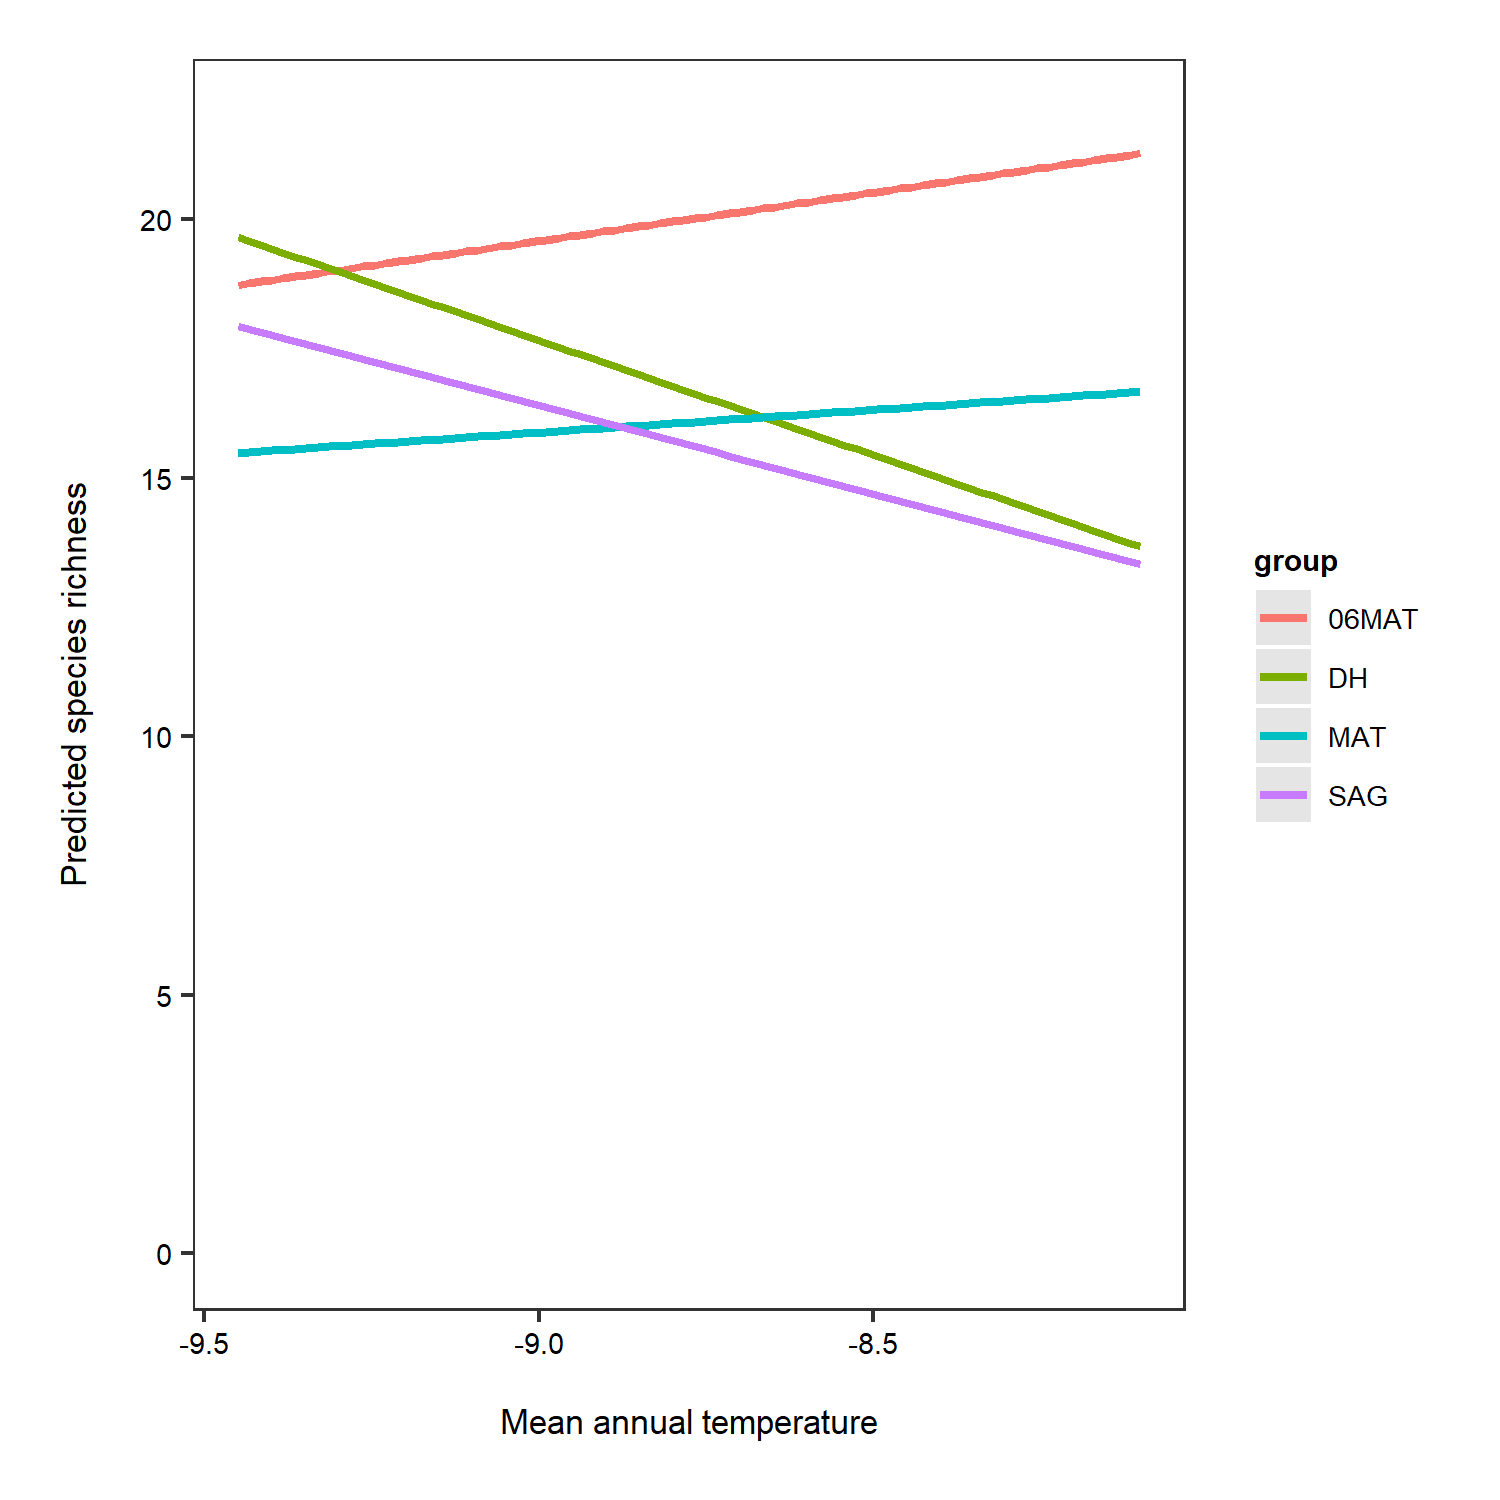
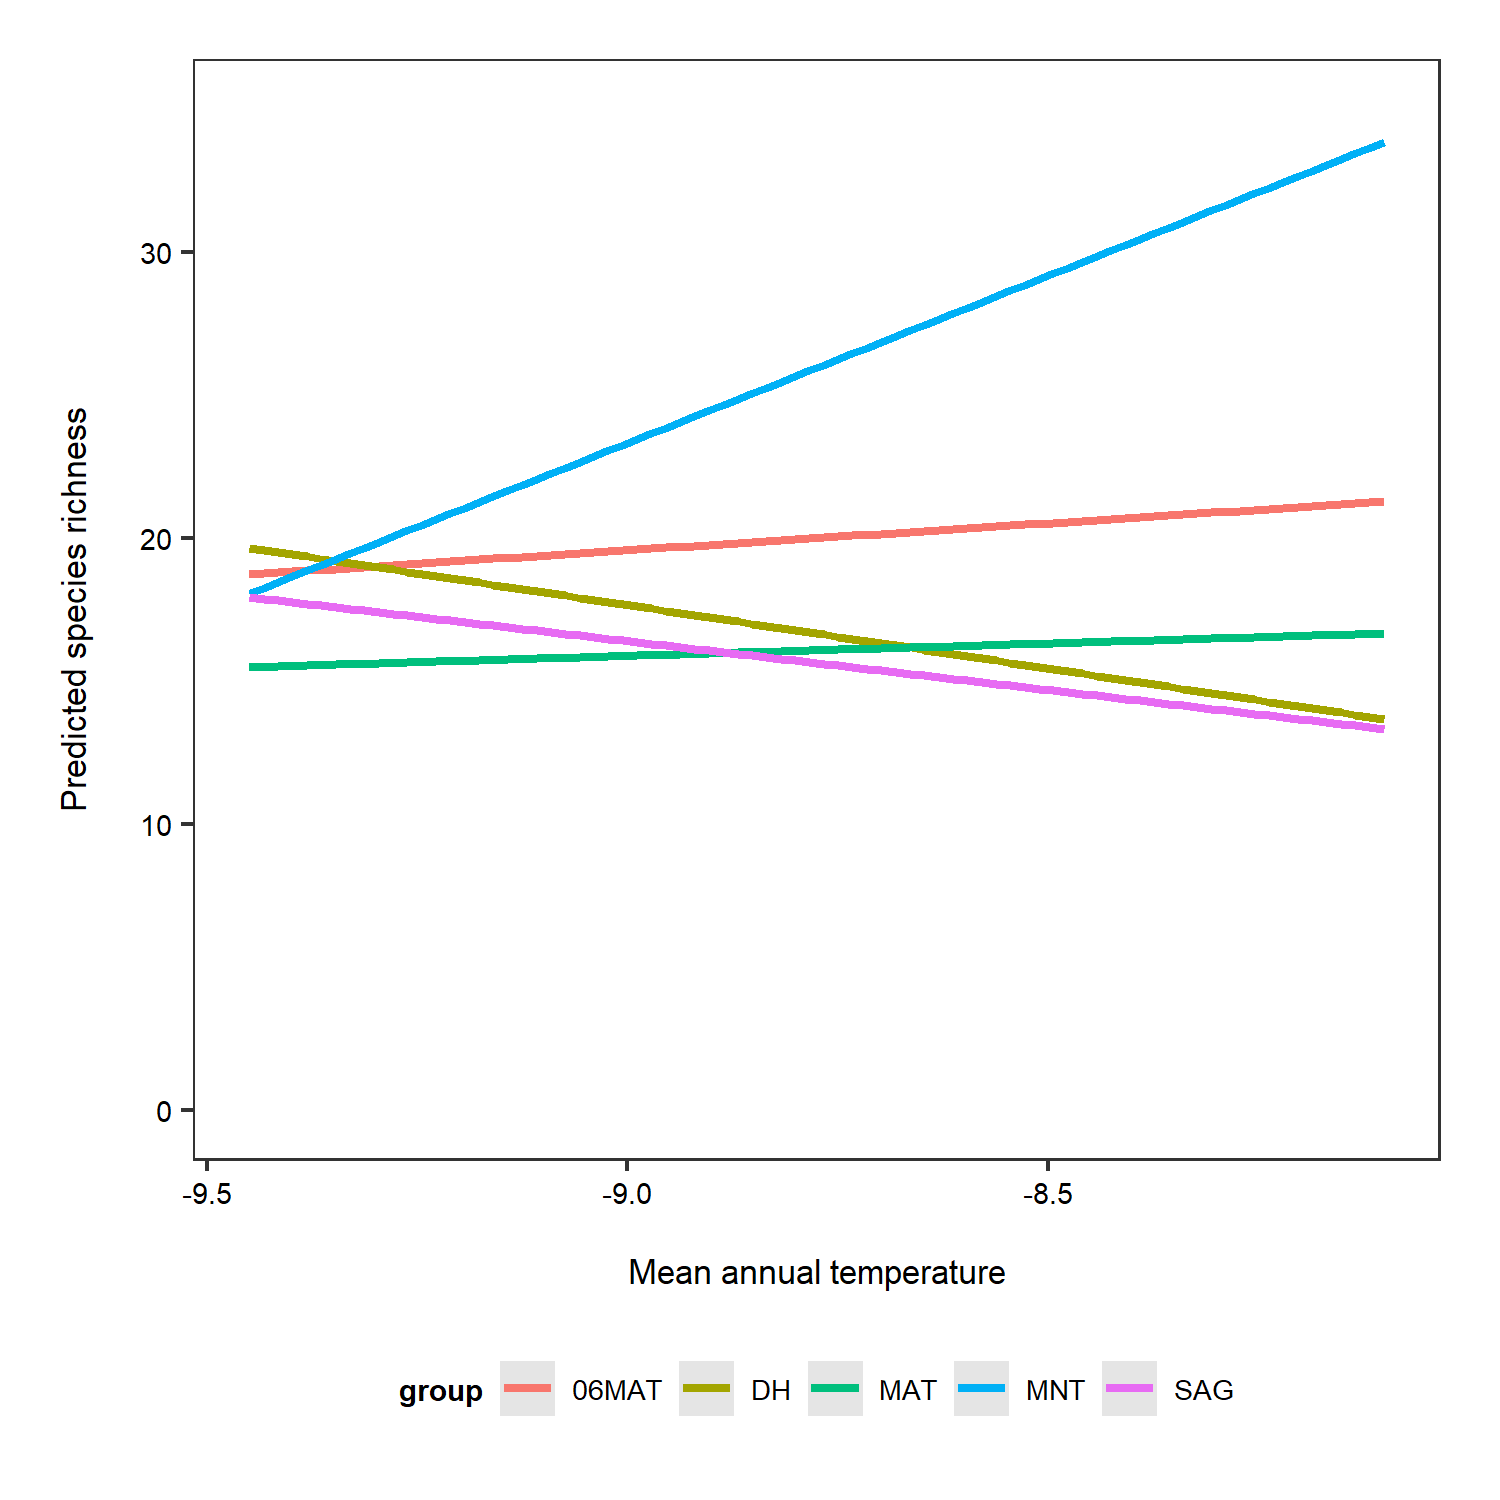
Minor updates to model-design tutorial
Mostly changed to sizes of graphs

diff --git a/_tutorials/model-design.md b/_tutorials/model-design.md
@@ -24,7 +24,7 @@ tags: modelling
 10. [Hierarchical models using `MCMCglmm`](#MCMCglmm)
 
 {% capture callout %}
-### All the files you need to complete this tutorial can be downloaded from [this repository](https://github.com/ourcodingclub/CC-model-design). Click on `Clone/Download/Download ZIP` and unzip the folder, or clone the repository to your own GitHub account.
+### All the files you need to complete this tutorial can be downloaded from [this repository](https://github.com/ourcodingclub/CC-model-design). Click on `Code` -> `Download ZIP` and unzip the folder, or clone the repository to your own GitHub account.
 {% endcapture %}
 {% include callout.html content=callout colour=alert %}
 
@@ -333,10 +333,9 @@ First, let's model with only site as a random effect.  This model does not incor
 ```r
 plant_m_plot <- lmer(Richness ~ I(Year-2007) + (1|Site), data = toolik_plants)
 summary(plant_m_plot)
-plot(plant_m_plot)  # Checking assumptions
 ```
 
-From the `summary()` outputs, you can see the effect sizes (under the column "Estimate" in the "Fixed effects" part of the summary), a key element of the model outputs. Effect sizes tell us about the strengths of the relationships we are testing. In this model, the "Year" variable has an effect of about -0.7 on "Richness", meaning an annual decrease of 0.7 species.
+From the `summary()` outputs, you can see the effect sizes (under the column "Estimate" in the "Fixed effects" part of the summary), a key element of the model outputs. Effect sizes tell us about the strengths of the relationships we are testing. In this model, the "Year" variable has an effect of about -0.7 on "Richness", which can be interpreted as an annual decrease of 0.7 species.
 
 We are still not accounting for the different plots and blocks though, so let's gradually add those and see how the results change.
 
@@ -352,7 +351,17 @@ plant_m_plot3 <- lmer(Richness ~ I(Year-2007) + (1|Site/Block/Plot), data = tool
 summary(plant_m_plot3)
 ```
 
-__This final model answers our question about how plant species richness has changed over time, whilst also accounting for the hierarchical structure of the data. Let's visualise the results using the `sjPlot` package!__
+__This final model answers our question about how plant species richness has changed over time, whilst also accounting for the hierarchical structure of the data.__
+
+Let's check our model's "fitted vs residuals" plot.
+
+```r
+plot(plant_m_plot3)  # Checking residuals
+```
+
+The points on this graph are evenly distributed on both sides of the horizontal line, which is a good sign that the model residuals do not violate the assumptions of the linear models.
+
+__Let's visualise the results using the `sjPlot` package!__
 
 ```r
 # Set a clean theme for the graphs
@@ -367,7 +376,7 @@ set_theme(base = theme_bw() +
 (re.effects <- plot_model(plant_m_plot3, type = "re", show.values = TRUE))
 
 save_plot(filename = "model_re.png",
-          height = 10, width = 10)  # Save the graph if you wish
+          height = 8, width = 15)  # Save the graph if you wish
 
 ```
 
@@ -405,7 +414,7 @@ Let's look at the fixed effect first this time:
 # Visualise the fixed effect
 (temp.fe.effects <- plot_model(plant_m_temp, show.values = TRUE))
 save_plot(filename = "model_temp_fe.png",
-          height = 7, width = 9)
+          height = 8, width = 15)
 ```
 
 ![Effect size of fixed effect of year]({{ site.baseurl }}/assets/img/tutorials/model-design/model_temp_fe.png)
@@ -418,7 +427,7 @@ And the random effects:
 # Visualise the random effect terms
 (temp.re.effects <- plot_model(plant_m_temp, type = "re", show.values = TRUE))
 save_plot(filename = "model_temp_re.png",
-          height = 7, width = 9)
+          height = 8, width = 15)
 ```
 
 Again, with the random effect terms, we can see the random effects of interactions, as well as for site, and year. Use your arrow buttons in the plots window to navigate between the plots. The figure you see below is the random effect of year.
@@ -451,6 +460,8 @@ summary(plant_m_rs)
 
 __Check out the summary outputs and the messages we get. This model is not converging and we shouldn't trust its outputs: the model structure is too complicated for the underlying data, so now we can simplify it.__
 
+If the code is running for a while, feel free to click on the "Stop" button and continue with the tutorial, as the model is not going to converge.
+
 ```r
 plant_m_rs <- lmer(Richness ~ Mean.Temp + (Mean.Temp|Site) + (1|Year),
                  data = toolik_plants)
@@ -464,7 +475,7 @@ We can visualise the results:
 ```r
 (plant.fe.effects <- plot_model(plant_m_rs, show.values = TRUE))
 save_plot(filename = "model_plant_fe.png",
-          height = 14, width = 9)
+          height = 8, width = 15)
 ```
 
 ![Effect size of mean temp - random slopes]({{ site.baseurl }}/assets/img/tutorials/model-design/model_plant_fe.png)
@@ -472,7 +483,7 @@ save_plot(filename = "model_plant_fe.png",
 ```r
 (plant.re.effects <- plot_model(plant_m_rs, type = "re", show.values = TRUE))
 save_plot(filename = "model_plant_re.png",
-          height = 17, width = 15)
+          height = 8, width = 15)
 ```
 
 ![Random slopes - random effect of year]({{ site.baseurl }}/assets/img/tutorials/model-design/model_plant_re.png)
@@ -482,16 +493,16 @@ To get a better idea of what the random slopes and intercepts are doing, we can 
 ```r
 ggpredict(plant_m_rs, terms = c("Mean.Temp")) %>% plot()
 save_plot(filename = "model_temp_richness.png",
-          height = 9, width = 9)
+          height = 12, width = 14)
 ```
-
 
 ![Random slope model predicted values]({{ site.baseurl }}/assets/img/tutorials/model-design/model_temp_richness.png)
 
 ```r
-ggpredict(plant_m_rs, terms = c("Mean.Temp", "Plot"), type = "re") %>% plot()
+ggpredict(plant_m_rs, terms = c("Mean.Temp", "Site"), type = "re") %>% plot() +
+  theme(legend.position = "bottom")
 save_plot(filename = "model_temp_richness_rs_ri.png",
-          height = 9, width = 9)
+          height = 12, width = 14)
 ```
 
 ![Random slope model predicted values by plot]({{ site.baseurl }}/assets/img/tutorials/model-design/model_temp_richness_rs_ri.png)
@@ -507,14 +518,16 @@ __We can manually plot the predictions to overcome this problem.__
 predictions <- ggpredict(plant_m_rs, terms = c("Mean.Temp"))
 
 (pred_plot1 <- ggplot(predictions, aes(x, predicted)) +
-  geom_line() +
-  geom_ribbon(aes(ymin = conf.low, ymax = conf.high), alpha = .1) +
-  scale_y_continuous(limits = c(0, 22)) +
-  labs(x = "\nMean annual temperature", y = "Predicted species richness\n"))
+    geom_line() +
+    geom_ribbon(aes(ymin = conf.low, ymax = conf.high), alpha = .1) +
+    scale_y_continuous(limits = c(0, 35)) +
+    labs(x = "\nMean annual temperature", y = "Predicted species richness\n"))
 
 ggsave(pred_plot1, filename = "overall_predictions.png",
        height = 5, width = 5)
 ```
+
+![ggplot2 random slope model overall predictions]({{ site.baseurl }}/assets/img/tutorials/model-design/overall_predictions.png)
 
 __The relationship between temperature and species richness doesn't look that strong anymore! In fact, we see pretty small increases in species richness as temperature increases. What does that tell you about our hypothesis?__
 
@@ -523,12 +536,13 @@ Now we can do the same, but this time taking into account the random effect.
 ```r
 # Predictions for each grouping level (here plot which is a random effect)
 # re stands for random effect
-predictions_rs_ri <- ggpredict(plant_m_rs, terms = c("Mean.Temp", "Plot"), type = "re")
+predictions_rs_ri <- ggpredict(plant_m_rs, terms = c("Mean.Temp", "Site"), type = "re")
 
 (pred_plot2 <- ggplot(predictions_rs_ri, aes(x = x, y = predicted, colour = group)) +
-  stat_smooth(method = "lm", se = FALSE)  +
-  scale_y_continuous(limits = c(0, 22)) +
-  labs(x = "\nMean annual temperature", y = "Predicted species richness\n"))
+    stat_smooth(method = "lm", se = FALSE)  +
+    scale_y_continuous(limits = c(0, 35)) +
+    theme(legend.position = "bottom") +
+    labs(x = "\nMean annual temperature", y = "Predicted species richness\n"))
 
 ggsave(pred_plot2, filename = "ri_rs_predictions.png",
        height = 5, width = 5)
@@ -542,6 +556,7 @@ __Just for the sake of really seeing the random intercepts and random slopes, he
 ```r
 (pred_plot3 <- ggplot(predictions_rs_ri, aes(x = x, y = predicted, colour = group)) +
     stat_smooth(method = "lm", se = FALSE)  +
+    theme(legend.position = "bottom") +
     labs(x = "\nMean annual temperature", y = "Predicted species richness\n"))
 
 ggsave(pred_plot3, filename = "ri_rs_predictions_zoom.png",
@@ -646,7 +661,7 @@ Today we have learned that in order to design a statistical model, we first need
 
 # Extras
 
-If you are keen, you can now try out the `brms` package and generate the Stan code for this model.  This will help us to start to thing about how we can implement hierarchical models using the statistical programming language Stan.
+If you are keen, you can now try out the `brms` package and generate the Stan code for this model.  This will help us to start to think about how we can implement hierarchical models using the statistical programming language Stan.
 
 __You can check out [the Stan hierarchical modelling tutorial here]({{ site.baseurl }}/tutorials/stan-2/index.html)!__
 
